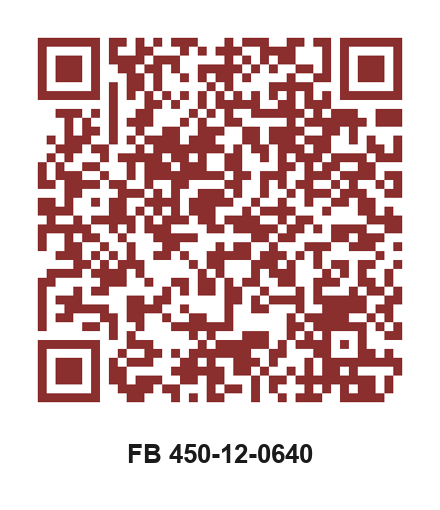
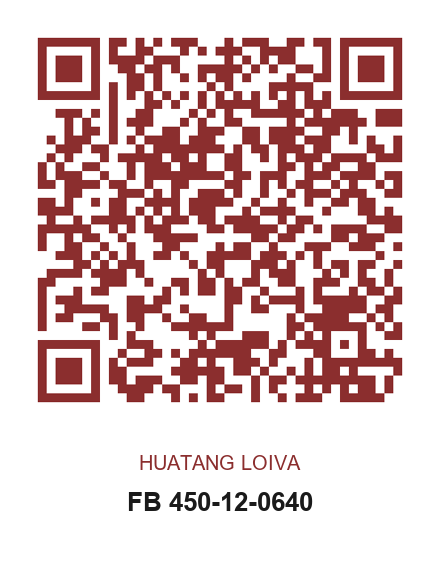
Add brand name label above model name on printed QR codes
Only the text drawn below each QR changed (brand line + model line).
QR generation parameters (size, error correction, box size, border,
and the encoded URL) are untouched, so every QR still scans to the
exact same catalog as before -- this only affects what's printed
underneath.

diff --git a/generate-qr-with-labels.py b/generate-qr-with-labels.py
@@ -1,7 +1,9 @@
 #!/usr/bin/env python3
 """
 Bangalore Exhibition - QR Code Generator WITH LABELS
-Generates QR codes with the catalog/model name printed underneath each one
+Generates QR codes with the brand name and catalog/model name printed
+underneath each one. Only the label text is added below the QR — the
+QR's scannable pixel data is unaffected by brand/name changes.
 """
 
 import os
@@ -15,34 +17,35 @@ except ImportError:
     print("   pip install qrcode[pil] pillow")
     sys.exit(1)
 
+# (model name, pdf filename, brand)
 catalogs = [
-    ('DEX32_52DM', 'DEX32_52DM.pdf'),
-    ('DY 1411PSF-D', 'DY 1411PSF-D.pdf'),
-    ('DY 1509 PD', 'DY 1509 PD.pdf'),
-    ('DY 1790S', 'DY 1790S.pdf'),
-    ('DY 2210G', 'DY 2210G.pdf'),
-    ('DY 3020', 'DY 3020.pdf'),
-    ('DY 430GT-01', 'DY 430GT-01.pdf'),
-    ('DY 438GT LA 971', 'DY 438GT LA 971.pdf'),
-    ('DY 4406P-D', 'DY 4406P-D.pdf'),
-    ('DY 5030', 'DY 5030.pdf'),
-    ('DY GC510-360 SERIES', 'DY GC510-360 SERIES.pdf'),
-    ('DY R9', 'DY R9.pdf'),
-    ('FB 450-12-0640', 'FB 450-12-0640.pdf'),
-    ('FB450', 'FB450.pdf'),
-    ('IEX32_52DM', 'IEX32_52DM.pdf'),
-    ('JT A8', 'JT A8.pdf'),
-    ('JTK 18F', 'JTK 18F.pdf'),
-    ('JTK6-60A', 'JTK6-60A.pdf'),
-    ('LS6021NP', 'LS6021NP.pdf'),
-    ('LS9231C', 'LS9231C.pdf'),
-    ('NF 1104_1106', 'NF 1104_1106.pdf'),
-    ('VIOS 669', 'VIOS 669.pdf'),
-    ('VIOS 867', 'VIOS 867.pdf'),
-    ('VIOS 868', 'VIOS 868.pdf'),
-    ('DY G36', 'DY G36.pdf'),
-    ('LOIVA ST21', 'LOIVA ST21.pdf'),
-    ('DUKE Q1 Tagging Machine', 'DUKE Q1_Tagging Machine.pdf'),
+    ('DEX32_52DM', 'DEX32_52DM.pdf', 'HUATANG LOIVA'),
+    ('DY 1411PSF-D', 'DY 1411PSF-D.pdf', 'DUKE'),
+    ('DY 1509 PD', 'DY 1509 PD.pdf', 'DUKE'),
+    ('DY 1790S', 'DY 1790S.pdf', 'DUKE'),
+    ('DY 2210G', 'DY 2210G.pdf', 'DUKE'),
+    ('DY 3020', 'DY 3020.pdf', 'DUKE'),
+    ('DY 430GT-01', 'DY 430GT-01.pdf', 'DUKE'),
+    ('DY 438GT LA 971', 'DY 438GT LA 971.pdf', 'DUKE'),
+    ('DY 4406P-D', 'DY 4406P-D.pdf', 'DUKE'),
+    ('DY 5030', 'DY 5030.pdf', 'DUKE'),
+    ('DY GC510-360 SERIES', 'DY GC510-360 SERIES.pdf', 'DUKE'),
+    ('DY R9', 'DY R9.pdf', 'DUKE'),
+    ('FB 450-12-0640', 'FB 450-12-0640.pdf', 'HUATANG LOIVA'),
+    ('FB450', 'FB450.pdf', 'HUATANG LOIVA'),
+    ('IEX32_52DM', 'IEX32_52DM.pdf', 'HUATANG LOIVA'),
+    ('JT A8', 'JT A8.pdf', 'JUITA'),
+    ('JTK 18F', 'JTK 18F.pdf', 'JUITA'),
+    ('JTK6-60A', 'JTK6-60A.pdf', 'JUITA'),
+    ('LS6021NP', 'LS6021NP.pdf', 'LENSH'),
+    ('LS9231C', 'LS9231C.pdf', 'LENSH'),
+    ('NF 1104_1106', 'NF 1104_1106.pdf', 'HUATANG LOIVA'),
+    ('VIOS 669', 'VIOS 669.pdf', 'VIOS'),
+    ('VIOS 867', 'VIOS 867.pdf', 'VIOS'),
+    ('VIOS 868', 'VIOS 868.pdf', 'VIOS'),
+    ('DY G36', 'DY G36.pdf', 'DUKE'),
+    ('LOIVA ST21', 'LOIVA ST21.pdf', 'HUATANG LOIVA'),
+    ('DUKE Q1 Tagging Machine', 'DUKE Q1_Tagging Machine.pdf', 'DUKE'),
 ]
 
 # ============================================================
@@ -50,23 +53,25 @@ catalogs = [
 # ============================================================
 BASE_URL = 'https://blr-exhibition.vercel.app'
 
-QR_SIZE = 400          # QR code image size (px, square)
-LABEL_HEIGHT = 70       # space reserved for text below QR
-FONT_SIZE = 26
+QR_SIZE = 400           # QR code image size (px, square) — never changes
+BRAND_FONT_SIZE = 20
+MODEL_FONT_SIZE = 26
+LABEL_HEIGHT = 130      # fixed space below QR for brand + model text
 PADDING = 20
+LINE_GAP = 10           # gap between brand line and model line(s)
 
 
 def sanitize_filename(text):
     return "".join(c if c.isalnum() or c in ('-', '_') else '_' for c in text)
 
 
-def get_font(size):
+def get_font(size, bold=True):
     """Try a few common fonts, fall back to PIL default."""
     candidates = [
-        "arialbd.ttf",              # Windows bold
-        "arial.ttf",                # Windows
-        "DejaVuSans-Bold.ttf",      # Linux
-        "/System/Library/Fonts/Supplemental/Arial Bold.ttf",  # macOS
+        "arialbd.ttf" if bold else "arial.ttf",
+        "arial.ttf",
+        "DejaVuSans-Bold.ttf" if bold else "DejaVuSans.ttf",
+        "/System/Library/Fonts/Supplemental/Arial Bold.ttf",
     ]
     for name in candidates:
         try:
@@ -76,7 +81,34 @@ def get_font(size):
     return ImageFont.load_default()
 
 
-def make_labeled_qr(data_url, label_text, out_path):
+def wrap_text(draw, text, font, max_width):
+    words = text.split(' ')
+    lines = []
+    current = ''
+    for word in words:
+        test = (current + ' ' + word).strip()
+        bbox = draw.textbbox((0, 0), test, font=font)
+        if bbox[2] - bbox[0] <= max_width:
+            current = test
+        else:
+            if current:
+                lines.append(current)
+            current = word
+    if current:
+        lines.append(current)
+    return lines
+
+
+def draw_centered_line(draw, line, y, canvas_w, font, fill):
+    bbox = draw.textbbox((0, 0), line, font=font)
+    text_w = bbox[2] - bbox[0]
+    x = (canvas_w - text_w) // 2
+    draw.text((x, y), line, fill=fill, font=font)
+
+
+def make_labeled_qr(data_url, brand_text, model_text, out_path):
+    # --- QR pixel data: depends only on data_url, nothing else below
+    # touches this, so relabeling never changes what the QR scans to.
     qr = qrcode.QRCode(
         version=1,
         error_correction=qrcode.constants.ERROR_CORRECT_H,
@@ -91,40 +123,29 @@ def make_labeled_qr(data_url, label_text, out_path):
     canvas_w = QR_SIZE + PADDING * 2
     canvas_h = QR_SIZE + PADDING * 2 + LABEL_HEIGHT
     canvas = Image.new('RGB', (canvas_w, canvas_h), '#ffffff')
-
     canvas.paste(qr_img, (PADDING, PADDING))
 
     draw = ImageDraw.Draw(canvas)
-    font = get_font(FONT_SIZE)
-
-    # Wrap text if too long for the canvas width
+    brand_font = get_font(BRAND_FONT_SIZE, bold=False)
+    model_font = get_font(MODEL_FONT_SIZE, bold=True)
     max_width = canvas_w - PADDING * 2
-    words = label_text.split(' ')
-    lines = []
-    current = ''
-    for word in words:
-        test = (current + ' ' + word).strip()
-        bbox = draw.textbbox((0, 0), test, font=font)
-        if bbox[2] - bbox[0] <= max_width:
-            current = test
-        else:
-            if current:
-                lines.append(current)
-            current = word
-    if current:
-        lines.append(current)
 
-    # Vertically center the (possibly 2-line) label in the label area
-    line_height = FONT_SIZE + 6
-    total_text_height = line_height * len(lines)
-    text_y = PADDING + QR_SIZE + (LABEL_HEIGHT - total_text_height) // 2
+    model_lines = wrap_text(draw, model_text, model_font, max_width)
 
-    for line in lines:
-        bbox = draw.textbbox((0, 0), line, font=font)
-        text_w = bbox[2] - bbox[0]
-        text_x = (canvas_w - text_w) // 2
-        draw.text((text_x, text_y), line, fill='#1a1a1a', font=font)
-        text_y += line_height
+    brand_line_height = BRAND_FONT_SIZE + 6
+    model_line_height = MODEL_FONT_SIZE + 6
+    total_height = brand_line_height + LINE_GAP + model_line_height * len(model_lines)
+
+    y = PADDING + QR_SIZE + max(0, (LABEL_HEIGHT - total_height) // 2)
+
+    # Brand name (smaller, accent color, uppercase)
+    draw_centered_line(draw, brand_text.upper(), y, canvas_w, brand_font, fill='#8b2e2e')
+    y += brand_line_height + LINE_GAP
+
+    # Model name (bold, dark, possibly wrapped over multiple lines)
+    for line in model_lines:
+        draw_centered_line(draw, line, y, canvas_w, model_font, fill='#1a1a1a')
+        y += model_line_height
 
     canvas.save(out_path)
 
@@ -134,22 +155,23 @@ def generate_all():
 
     print(f'Generating labeled QR codes -> {BASE_URL}\n')
 
-    # Main gallery QR
+    # Main gallery QR (no single brand, so just a category label)
     make_labeled_qr(
         f'{BASE_URL}/index.html',
+        'EXHIBITION',
         'ALL CATALOGS',
         'qr-codes/00_MAIN-GALLERY_All_Catalogs.png'
     )
-    print('Generated: 00_MAIN-GALLERY_All_Catalogs.png  [ALL CATALOGS]')
+    print('Generated: 00_MAIN-GALLERY_All_Catalogs.png  [EXHIBITION / ALL CATALOGS]')
 
-    for idx, (name, filename) in enumerate(catalogs, 1):
+    for idx, (name, filename, brand) in enumerate(catalogs, 1):
         catalog_url = f'{BASE_URL}/index.html?catalog={idx}'
         clean_name = sanitize_filename(name)
         out_file = f'qr-codes/{str(idx).zfill(2)}_{clean_name}.png'
-        make_labeled_qr(catalog_url, name, out_file)
-        print(f'Generated: {out_file}  [{name}]')
+        make_labeled_qr(catalog_url, brand, name, out_file)
+        print(f'Generated: {out_file}  [{brand} / {name}]')
 
-    print('\nAll QR codes generated with labels underneath!')
+    print('\nAll QR codes generated with brand + model labels underneath!')
     print('Location: qr-codes/ folder')
     print('\nIMPORTANT: Update BASE_URL at the top of this script')
     print(f'Current BASE_URL: {BASE_URL}')
